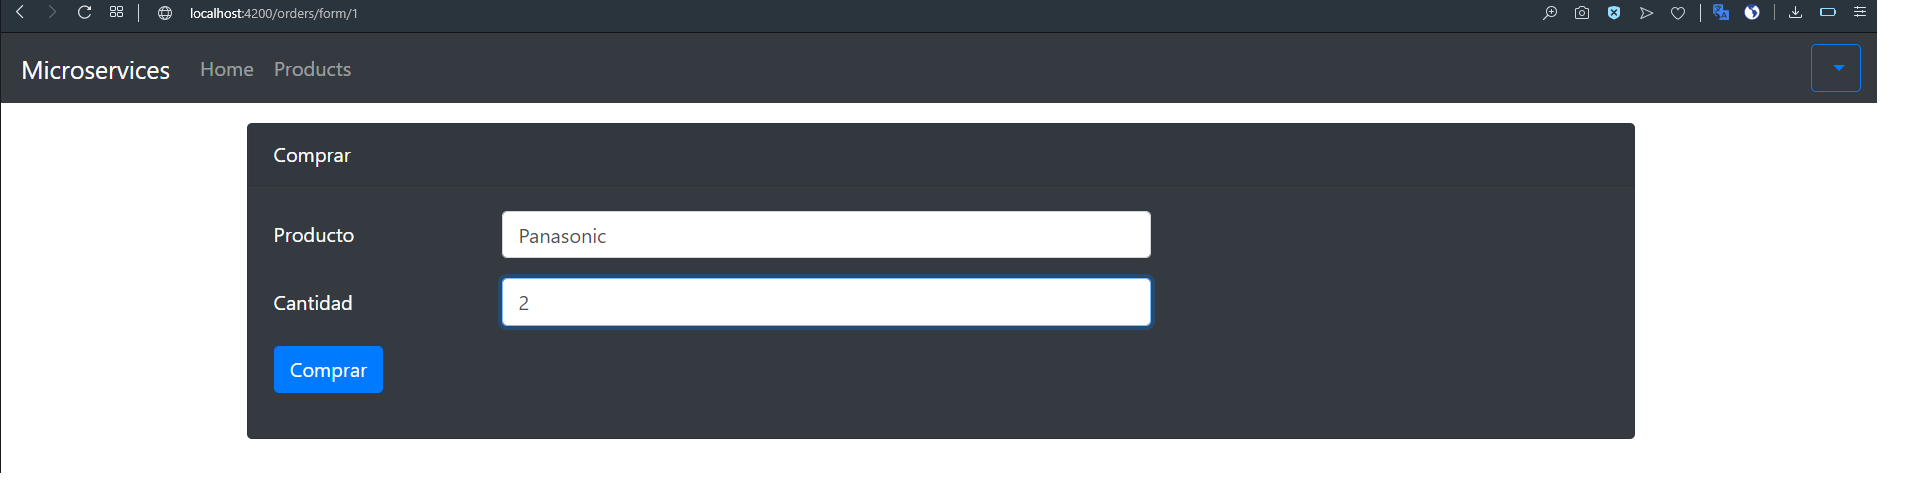
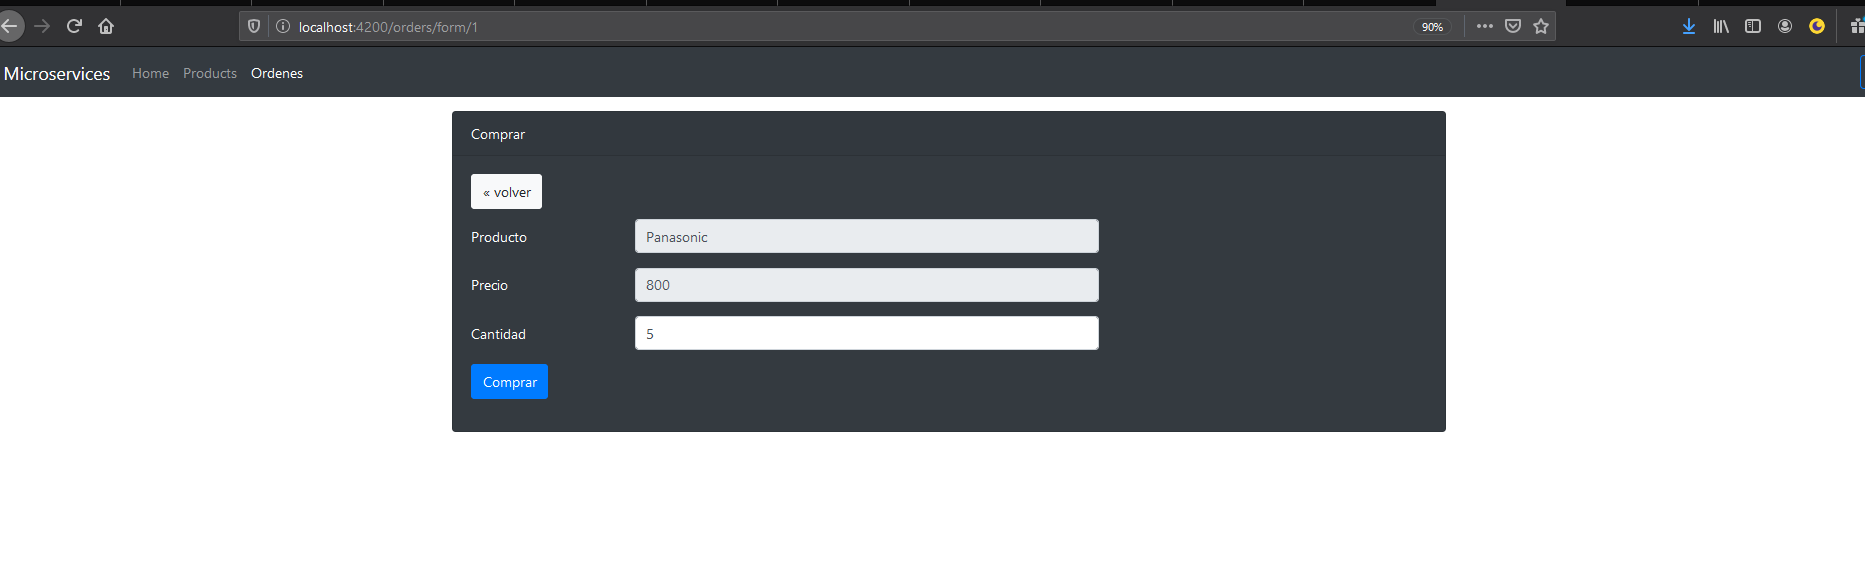
Ordenes

diff --git a/frontend/src/app/order/order.service.ts b/frontend/src/app/order/order.service.ts
@@ -1,9 +1,79 @@
+import { Order } from './order';
 import { Injectable } from '@angular/core';
+import { HttpHeaders, HttpClient } from '@angular/common/http';
+import { AuthService } from '../user/auth.service';
+import { Router } from '@angular/router';
+import { Observable, throwError } from 'rxjs';
+import { catchError, map } from 'rxjs/operators';
+
+import swal from 'sweetalert2';
 
 @Injectable({
   providedIn: 'root'
 })
 export class OrderService {
+  private urlEndPoint: string = 'http://localhost:8090/api/service-items/items';
+  private httpHeaders = new HttpHeaders({ 'Content-Type': 'application/json' });
 
-  constructor() { }
+
+
+  constructor(private http: HttpClient, private authService: AuthService,private router: Router) { }
+
+  private addAuthorizationHeader() {
+    let token = this.authService.token;
+    if (token != null) {
+      return this.httpHeaders.append('Authorization', 'Bearer ' + token);
+    }
+    return this.httpHeaders;
+  }
+
+  private unAthorized(e): boolean {
+    if (e.status == 401) {
+      //Cuando el token expira en el backend en el frontend cerramos session
+      if (this.authService.isAuthenticated) {
+        this.authService.logout();
+      }
+
+      this.router.navigate(['/login']);
+      return true;
+    }
+
+    if (e.status == 403) {
+    
+      this.router.navigate(['/products']);
+      return true;
+    }
+    return false;
+  }
+
+  public getOrders(): Observable<Order[]> {
+    return this.http.get<Order[]>(`${this.urlEndPoint}`,{ headers: this.addAuthorizationHeader() }).pipe(
+     catchError(e => { 
+     
+       return throwError(e);
+     })
+   );
+ }
+
+ public createOrder(order: Order): Observable<Order> {
+  return this.http.post(this.urlEndPoint, order, { headers: this.addAuthorizationHeader() })
+    .pipe(
+      map((response: any) => response.order as Order),
+      catchError(e => {
+        if (this.unAthorized(e)) {
+          return throwError(e);
+        }
+
+        if (e.status == 400) {
+          return throwError(e);
+        }
+
+        console.error(e.error.mensaje);
+        swal.fire(e.error.mensaje, e.error.error, 'error');
+        return throwError(e);
+      })
+    );
+}
+
+
 }

diff --git a/frontend/src/app/order/createorder/createorder.component.html b/frontend/src/app/order/createorder/createorder.component.html
@@ -3,19 +3,32 @@
   <div class="card bg-dark text-white">
     <div class="card-header">{{ title }}</div>
     <div class="card-body">
+
+        <h4 class="card-title">
+            <a [routerLink]="['/products']" class="btn btn-light btn-xs">&laquo; volver</a>
+          </h4>
+         
   
       <form #orderForm="ngForm">
         <div class="form-group row">
           <label for="product" class="col-form-label col-sm-2">Producto</label>
           <div class="col-sm-6">
-            <input type="text" class="form-control"  name="product"> <!-- required minlength="4" -->
+            <input type="text" class="form-control"  name="product"  value="{{order.product.name}}" class="form-control" disabled> <!-- required minlength="4" -->
+           
           </div>
         </div>
   
         <div class="form-group row">
+          <label for="price" class="col-form-label col-sm-2">Precio</label>
+          <div class="col-sm-6">
+            <input type="text" class="form-control"  name="price" value="{{order.product.price}}" class="form-control" disabled> <!-- required minlength="4" -->
+          </div>
+        </div>
+
+        <div class="form-group row">
             <label for="quantity" class="col-form-label col-sm-2">Cantidad</label>
             <div class="col-sm-6">
-              <input type="text" class="form-control"  name="quantity"> <!-- required minlength="4" -->
+              <input type="text" class="form-control"  [(ngModel)]="order.quantity" name="quantity" #quantity="ngModel"> <!-- required minlength="4" -->
             </div>
           </div>
   
@@ -23,9 +36,8 @@
        
   
         <div class="form-group row">
-          <div class="col-sm-6">
-            <button class="btn btn-primary" role="button">Comprar</button>
-  
+          <div class="col-sm-12">
+            <button class="btn btn-primary" (click)='create()' role="button">Comprar</button>
            
           </div>
         </div>

diff --git a/frontend/src/app/order/createorder/createorder.component.ts b/frontend/src/app/order/createorder/createorder.component.ts
@@ -1,4 +1,9 @@
+import { OrderService } from './../order.service';
+import { ProductService } from './../../product/product.service';
+import { Order } from './../order';
 import { Component, OnInit } from '@angular/core';
+import { Router, ActivatedRoute } from '@angular/router';
+import swal from 'sweetalert2';
 
 @Component({
   selector: 'app-createorder',
@@ -8,9 +13,36 @@ import { Component, OnInit } from '@angular/core';
 export class CreateorderComponent implements OnInit {
 
   title: string = "Comprar";
-  constructor() { }
+  errors: string[];
+
+  order: Order = new Order();
+  constructor(private productService: ProductService,
+    private orderService: OrderService,
+    private router: Router,
+    private activatedRoute: ActivatedRoute) { }
 
   ngOnInit() {
+    this.activatedRoute.paramMap.subscribe(params => {
+      let productId = +params.get('id');
+      this.productService.getProduct(productId).subscribe(product => this.order.product = product);
+    });
   }
+
+  create(): void {
+    console.log(this.order);
+    this.orderService.createOrder(this.order)
+      .subscribe(
+        order => {
+          this.router.navigate(['/products']);
+          swal.fire('Nuevo Producto', `La orden del product  ${order.product.name} ha sido creado con éxito`, 'success');
+        },
+        err => {
+          this.errors = err.error.errors as string[];
+          console.error('Código del error desde el backend: ' + err.status);
+          console.error(err.error.errors);
+        }
+      );
+  }
+
 
 }

diff --git a/frontend/src/app/order/orders/orders.component.html b/frontend/src/app/order/orders/orders.component.html
@@ -1,0 +1,35 @@
+<div class="card border-primary mb-3">
+        <div class="card-header">Ordenes Generadas</div>
+        <div class="card-body text-primary">
+          <h5 class="card-title">Listado de Ordenes</h5>
+        
+          <div *ngIf="orders?.length == 0" class="alert alert-info">
+            No hay registros en la base de datos!
+          </div>
+          <table class="table table-bordered table-striped" *ngIf="orders?.length>0">
+            <thead>
+              <tr>
+                <th>Codigo</th>
+                <th>Product</th>
+                <th>Precio</th>
+                <th>Cantidad</th>
+                <th>Total</th>
+              
+              </tr>
+            </thead>
+            <tbody>
+              <tr *ngFor="let order of orders">
+                <td>{{ order.id }}</td>
+                <td>{{ order.product.name }}</td>
+                <td>{{ order.product.price}}</td>
+                <td>{{ order.quantity }}</td>
+                <td>{{ order.total }}</td>
+              
+               
+              </tr>
+            </tbody>
+          </table>
+        
+        </div>
+      </div>
+      

diff --git a/frontend/src/app/app-routing.module.ts b/frontend/src/app/app-routing.module.ts
@@ -1,3 +1,4 @@
+import { OrdersComponent } from './order/orders/orders.component';
 import { CreateorderComponent } from './order/createorder/createorder.component';
 import { CreateproductComponent } from './product/createproduct/createproduct.component';
 import { ProductsComponent } from './product/products/products.component';
@@ -14,6 +15,7 @@ const routes: Routes = [
   { path: 'products/form', component: CreateproductComponent, canActivate: [AuthGuard, RoleGuard], data: { role: 'ROLE_ADMIN' } },
   { path: 'products/form/:id', component: CreateproductComponent, canActivate: [AuthGuard, RoleGuard], data: { role: 'ROLE_ADMIN' } },
   { path: 'orders/form/:id', component: CreateorderComponent, canActivate: [AuthGuard, RoleGuard], data: { role: 'ROLE_USER' } },
+  { path: 'orders', component: OrdersComponent, canActivate: [AuthGuard, RoleGuard], data: { role: 'ROLE_USER' } },
   {path: 'login',component: LoginComponent}
 ];
 

diff --git a/frontend/src/app/order/orders/orders.component.ts b/frontend/src/app/order/orders/orders.component.ts
@@ -1,0 +1,27 @@
+import { OrderService } from './../order.service';
+import { Order } from './../order';
+import { Component, OnInit } from '@angular/core';
+import { AuthService } from 'src/app/user/auth.service';
+import { ActivatedRoute } from '@angular/router';
+
+@Component({
+  selector: 'app-orders',
+  templateUrl: './orders.component.html',
+  styleUrls: ['./orders.component.css']
+})
+export class OrdersComponent implements OnInit {
+
+  orders: Order[];
+
+  constructor(private orderService: OrderService,
+    private authService: AuthService,
+    private activatedRoute: ActivatedRoute) { }
+
+  ngOnInit() {
+    this.reloadData();
+  }
+
+  reloadData() {
+    this.orderService.getOrders().subscribe(orders => this.orders = orders);
+  }
+}

diff --git a/frontend/src/app/app.module.ts b/frontend/src/app/app.module.ts
@@ -11,6 +11,8 @@ import { ProductsComponent } from './product/products/products.component';
 import { HttpClientModule } from '@angular/common/http';
 import { FormsModule } from '@angular/forms';
 import { CreateorderComponent } from './order/createorder/createorder.component';
+import { OrdersComponent } from './order/orders/orders.component';
+
 
 
 @NgModule({
@@ -20,7 +22,8 @@ import { CreateorderComponent } from './order/createorder/createorder.component'
     HeaderComponent,
     ProductsComponent,
     CreateproductComponent,
-    CreateorderComponent
+    CreateorderComponent,
+    OrdersComponent
 
   ],
   imports: [

diff --git a/frontend/src/app/header/header.component.html b/frontend/src/app/header/header.component.html
@@ -14,6 +14,10 @@
       <li class="nav-item" routerLinkActive="active">
         <a class="nav-link" [routerLink]="['/products']">Products</a>
       </li>
+
+      <li class="nav-item" routerLinkActive="active">
+          <a class="nav-link" [routerLink]="['/orders']">Ordenes</a>
+        </li>
     </ul>
     <ul class="navbar-nav navbar-right">
       <li *ngIf="!authService.isAuthenticated()"><a [routerLink]="['/login']" class="btn btn-outline-primary">Sign

diff --git a/frontend/src/app/product/product.service.ts b/frontend/src/app/product/product.service.ts
@@ -16,7 +16,7 @@ export class ProductService {
 
   private urlEndPoint: string = 'http://localhost:8090/api/service-products/products';
   private httpHeaders = new HttpHeaders({ 'Content-Type': 'application/json' });
-  private title;
+
 
   constructor(private http: HttpClient, private authService: AuthService,private router: Router) { }
 

diff --git a/frontend/src/app/order/order.ts b/frontend/src/app/order/order.ts
@@ -1,5 +1,8 @@
+import { Product } from './../product/product';
 export class Order {
     id: number;
     quantity: number;
-    productId: number;
+    //productId: number;
+    product:Product;
+    total:number;
 }

diff --git a/backend/service-items/src/main/java/com/hampcode/controller/ItemController.java b/backend/service-items/src/main/java/com/hampcode/controller/ItemController.java
@@ -30,13 +30,13 @@ public class ItemController {
 	@Autowired
     private Mapper mapper;
 
-	/*@GetMapping
+	@GetMapping
 	public ResponseEntity<List<Item>> getItems() {
 		List<Item> items = itemService.getAll();
 		return new ResponseEntity<List<Item>>(items, HttpStatus.OK);
-	}*/
+	}
 
-	@GetMapping
+	/*@GetMapping
 	public List<OrderViewModel> getItems() {
 		List<Item> items = this.itemService.getAll();
 
@@ -45,7 +45,7 @@ public class ItemController {
 				.collect(Collectors.toList());
 
 		return ordersViewModel;
-	}
+	}*/
 	
 	@HystrixCommand(fallbackMethod="methodAlternative")
 	//@GetMapping("/product/{productId}/quantity/{quantity}")
@@ -53,14 +53,21 @@ public class ItemController {
 	//public ResponseEntity<Item> addProductCart(@PathVariable Long productId, @PathVariable Integer quantity) {
 	public ResponseEntity<Item> addProductCart(@PathVariable Long productId){
 		//Item item = itemService.shoppingCart(productId, quantity);
-		Item item = itemService.shoppingCart(productId, 1);	
+		Item item = itemService.shoppingCart(productId, 1 );	
 		return new ResponseEntity<Item>(item, HttpStatus.OK);
 	}
 
-	@PostMapping
+	/*@PostMapping
 	public ResponseEntity<Item> createItem(@RequestBody OrderViewModel orderViewModel) {
 		
 		Item item = this.mapper.convertToOrderViewModelEntity(orderViewModel);
+		itemService.create(item);
+		return new ResponseEntity<Item>(item, HttpStatus.CREATED);
+	}*/
+	
+	@PostMapping
+	public ResponseEntity<Item> createItem(@RequestBody Item item) {
+		
 		itemService.create(item);
 		return new ResponseEntity<Item>(item, HttpStatus.CREATED);
 	}

diff --git a/backend/service-items/src/main/java/com/hampcode/model/entity/Item.java b/backend/service-items/src/main/java/com/hampcode/model/entity/Item.java
@@ -22,6 +22,9 @@ public class Item {
 	@ManyToOne
 	@JoinColumn(name = "product_id")
 	private Product product;
+	
+	@Column(name="total",precision=8, scale=2)
+	private Double total;
 
 	public Item() {
 
@@ -30,6 +33,7 @@ public class Item {
 	public Item(Product product, Integer quantity) {
 		this.product = product;
 		this.quantity = quantity;
+		
 	}
 
 	public Long getId() {
@@ -56,7 +60,14 @@ public class Item {
 		this.quantity = quantity;
 	}
 
+	
+	
+	public void setTotal(Double total) {
+		this.total = total;
+	}
+
 	public Double getTotal() {
-		return product.getPrice() * quantity.doubleValue();
+		//return product.getPrice() * quantity.doubleValue();
+		return total;
 	}
 }
